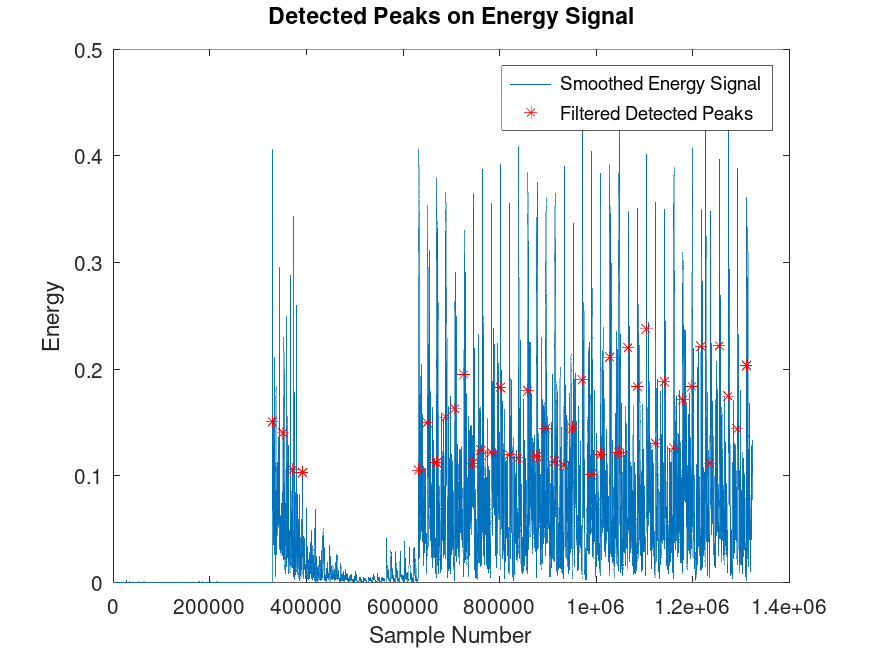
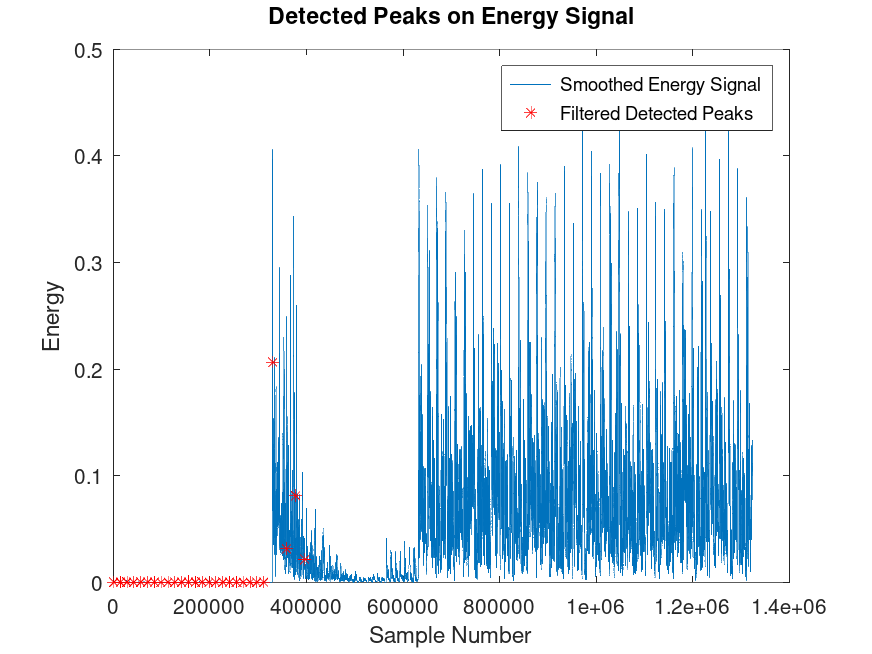
roadmap #3 kinda works

diff --git a/src/detectPeaks.m b/src/detectPeaks.m
@@ -1,0 +1,58 @@
+function [filteredPeaks, filteredLocations] = detectPeaks(acf, lag, fs)
+
+% Constants
+MIN_PEAK_MULTIPLIER = 2; % Multiplier for the minimum peak height
+EXPECTED_BPM = 200; % Expected BPM for calculating minimum samples between beats
+
+% Check if the ACF is empty
+if isempty(acf)
+    error('acf is empty');
+end
+
+% Check if the ACF and lag are the same size
+if length(acf) ~= length(lag)
+    error('acf and lag are not the same size');
+end
+
+% Check if the sampling frequency is valid
+if fs <= 0
+    error('fs is not positive');
+end
+
+% Only consider positive lags for peak detection
+lagPositive = lag(lag >= 0);
+acfPositive = acf(lag >= 0);
+
+% Hotfix: Set negative values to zero
+acfPositive(acfPositive < 0) = 0;
+
+% Detect peaks in the ACF (only consider positive lags)
+[peaks, locations] = findpeaks(acfPositive);
+
+% Calculate minimum peak height
+minPeakHeight = mean(acfPositive) * MIN_PEAK_MULTIPLIER;
+validPeaksIdx = peaks > minPeakHeight;
+
+% Filter peaks by height
+validPeaks = peaks(validPeaksIdx);
+validLocations = lagPositive(locations(validPeaksIdx));
+
+% Calculate the minimum number of samples between beats
+beatsPerSecond = EXPECTED_BPM / 60;
+minDistanceSeconds = (fs / beatsPerSecond) / fs; % Convert to seconds
+
+% Initialize arrays for filtered peaks
+filteredPeaks = [];
+filteredLocations = [];
+lastLocation = -inf;
+
+% Filter peaks based on minimum distance
+for i = 1:length(validLocations)
+    if isempty(filteredLocations) || (validLocations(i) - lastLocation) > minDistanceSeconds
+        filteredPeaks = [filteredPeaks, validPeaks(i)];
+        filteredLocations = [filteredLocations, validLocations(i)];
+        lastLocation = validLocations(i);
+    end
+end
+
+end

diff --git a/src/main.m b/src/main.m
@@ -19,20 +19,27 @@ else
     pkg load signal;
 end
 
+% Read WAV file
+[signal, fs] = audioread(wavFilePath); % Read audio data and sampling frequency from WAV file
+
 % Read the audio file and preprocess it
-[filteredSignal, fs] = readAndPreprocess(wavFilePath);
+[filteredSignal] = preprocess(signal, fs);
 
 % Calculate the energy signal and smooth it
 [smoothedEnergySignal] = calculateEnergy(filteredSignal, fs);
 
-% Use the auto-correlation function to identify the periodicity in the signal
-% TODO: [lag, acf] = autoCorrelationAnalysis(signal, fs);
 
-% Detect peaks and calculate the BPM
-[filteredBPM, filteredLocations] = detectPeaksAndCalculateBPM(smoothedEnergySignal, fs);
+% Use the auto-correlation function to identify the periodicity in the signal
+[lag, acf] = autoCorrelation(smoothedEnergySignal, fs);
+
+% Detect peaks
+[peaks, locations] = detectPeaks(acf, lag, fs);
+
+% Calculate the BPM
+bpm = calculateBPM(locations);
 
 % Display the estimated BPM
-fprintf('Estimated BPM: %d\n', round(filteredBPM));
+fprintf('Estimated BPM: %d\n', round(bpm));
 
 % Create a figure window but make it invisible
 fig = figure('visible', 'off');
@@ -40,7 +47,8 @@ fig = figure('visible', 'off');
 % Plot the smoothed energy signal and detected peaks
 plot(smoothedEnergySignal); % Plot smoothed energy signal
 hold on;
-plot(filteredLocations, smoothedEnergySignal(filteredLocations), 'r*'); % Plot filtered detected peaks
+indicesForPlotting = round(locations * fs) + 1;
+plot(indicesForPlotting, smoothedEnergySignal(indicesForPlotting), 'r*');
 xlabel('Sample Number'); % Label x-axis
 ylabel('Energy'); % Label y-axis
 title('Detected Peaks on Energy Signal'); % Title for the plot

diff --git a/src/preprocess.m b/src/preprocess.m
@@ -1,13 +1,10 @@
-function [filteredSignal, fs] = readAndPreprocess(wavFilePath)
+function [filteredSignal] = preprocess(signal, fs)
 
 % Static variables / constants
 CUTOFF_FREQUENCY = 300; % Low-pass filter cutoff frequency in Hz
 PASSBAND_RIPPLE = 3; % Passband ripple in dB for the Butterworth filter
 STOPBAND_ATTENUATION = 40; % Stopband attenuation in dB for the Butterworth filter
 FILTER_ORDER_LIMIT = 5; % Maximum order for the Butterworth filter
-
-% Read WAV file
-[signal, fs] = audioread(wavFilePath); % Read audio data and sampling frequency from WAV file
 
 % Convert stereo to mono if necessary
 if size(signal, 2) > 1

diff --git a/src/autoCorrelation.m b/src/autoCorrelation.m
@@ -1,11 +1,11 @@
-function [lag, acf] = autoCorrelationAnalysis(signal, fs)
+function [lag, acf] = autoCorrelation(signal, fs)
 
 % Perform auto-correlation on the signal
 [acf, lags] = xcorr(signal, 'coeff');
-    
+  
 % Normalize lags to time
 lag = lags / fs;
-    
+
 % Here, 'acf' is the auto-correlation function, and 'lag' are the corresponding time lags.
 % You might want to limit the lag range based on expected BPMs to improve accuracy and reduce noise.
 end

diff --git a/src/calculateBPM.m b/src/calculateBPM.m
@@ -1,0 +1,12 @@
+function bpm = calculateBPM(filteredLocations)
+
+% Check if there are enough locations to calculate BPM
+if isempty(filteredLocations) || length(filteredLocations) < 2
+    bpm = 0; % Not enough data to determine BPM
+    return;
+end
+
+% Calculate bpm from median
+bpm = 60 / median(diff(filteredLocations));
+
+end
